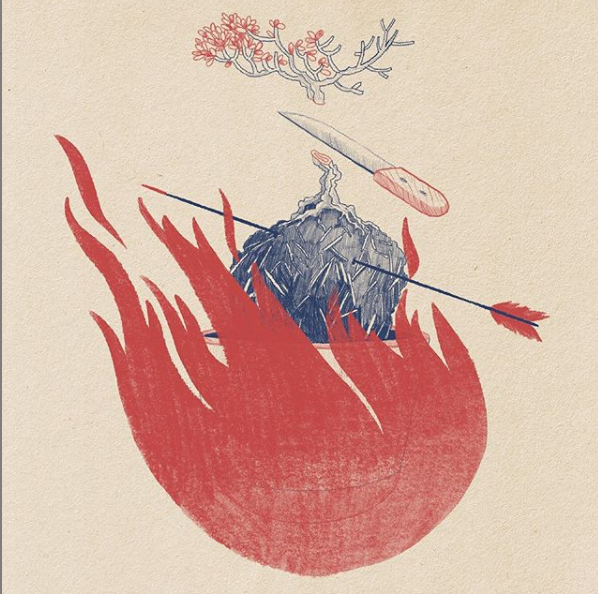
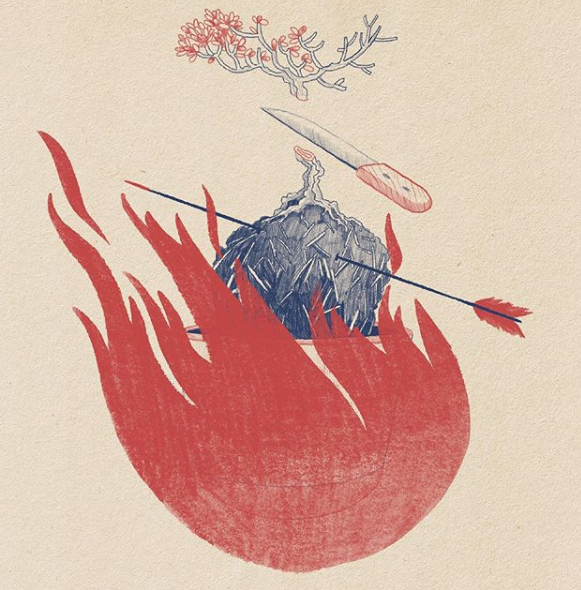
background image index

diff --git a/styleindex.css b/styleindex.css
@@ -9,12 +9,12 @@
   overflow-x: hidden;
 }
 body{
+  background-color: #e6d7c3;
   background-image: url("img/fire1.png");
-  background-color: #cccccc;
-  height: 500px;
-  background-position: initial;
+  height: 400px;
+  background-position: center 150px;
   background-repeat: no-repeat;
-  background-size: cover;
+  background-size: contain;
   position: relative;
 }
 .row::after {
@@ -128,6 +128,7 @@ body{
   margin-bottom: 10px;
   font-size:15px;
 }
+
 
 .bottom{
   background-color: grey;

diff --git a/index.html b/index.html
@@ -49,7 +49,7 @@
       <!-- titolo -->
       <div class="logo" >
         <a href="#"><img src="img/logo.png" alt="" ></a>
-        
+
       </div>
       <!-- menu -->
       <div class="menu">

diff --git a/contatti.html b/contatti.html
@@ -73,7 +73,7 @@
         </div>
       </div>
     </div>
-
+    
     <div class="contenuto">
       <img src="img/logocontatti.png" alt="">
       <div class="testo">
